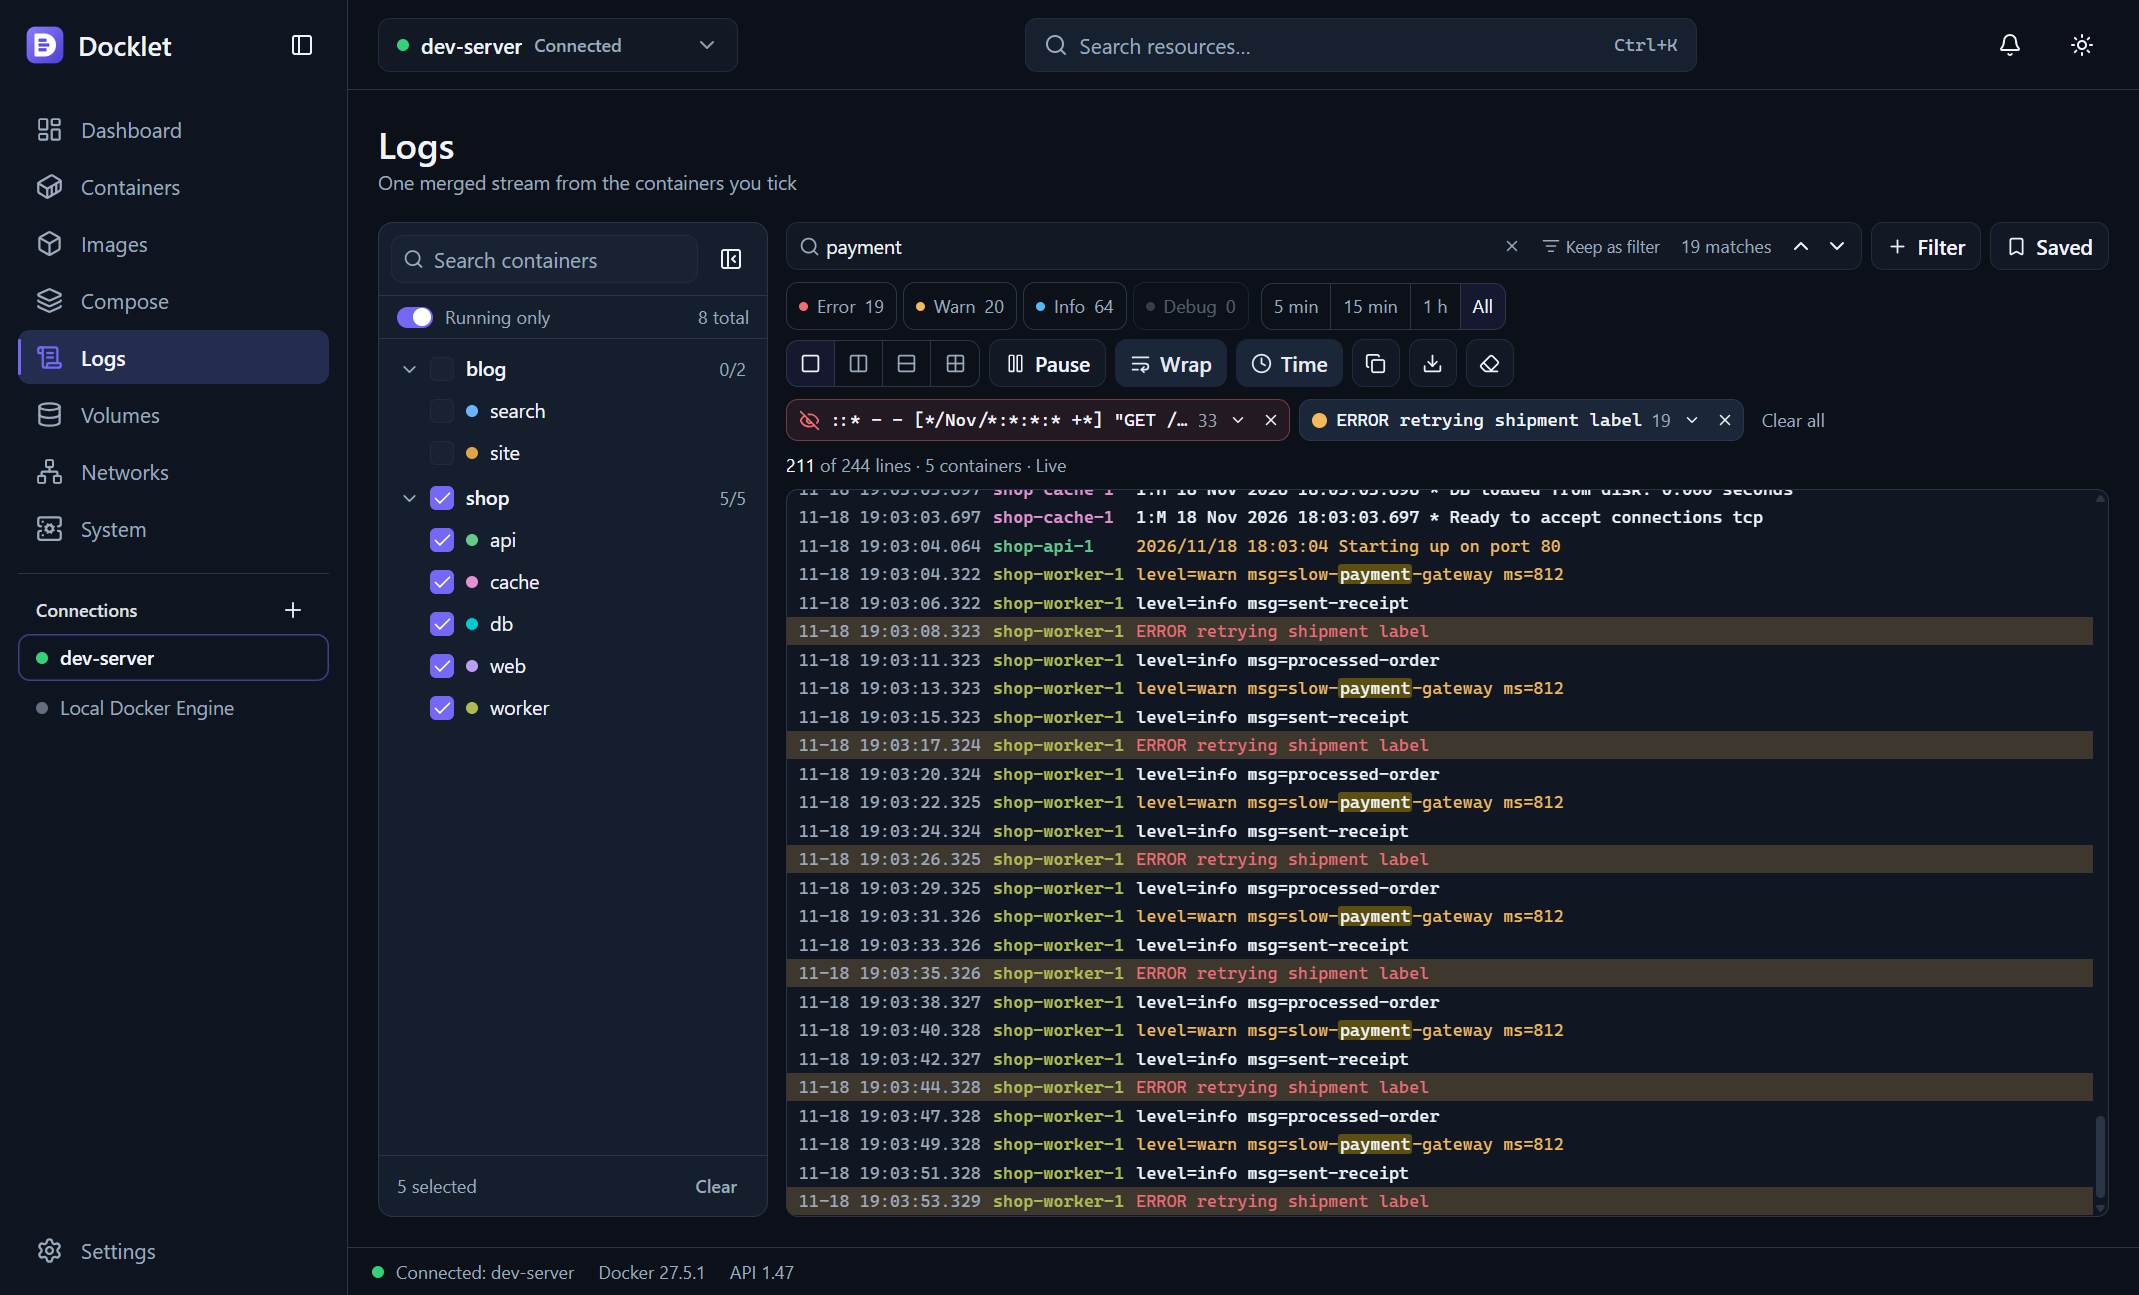
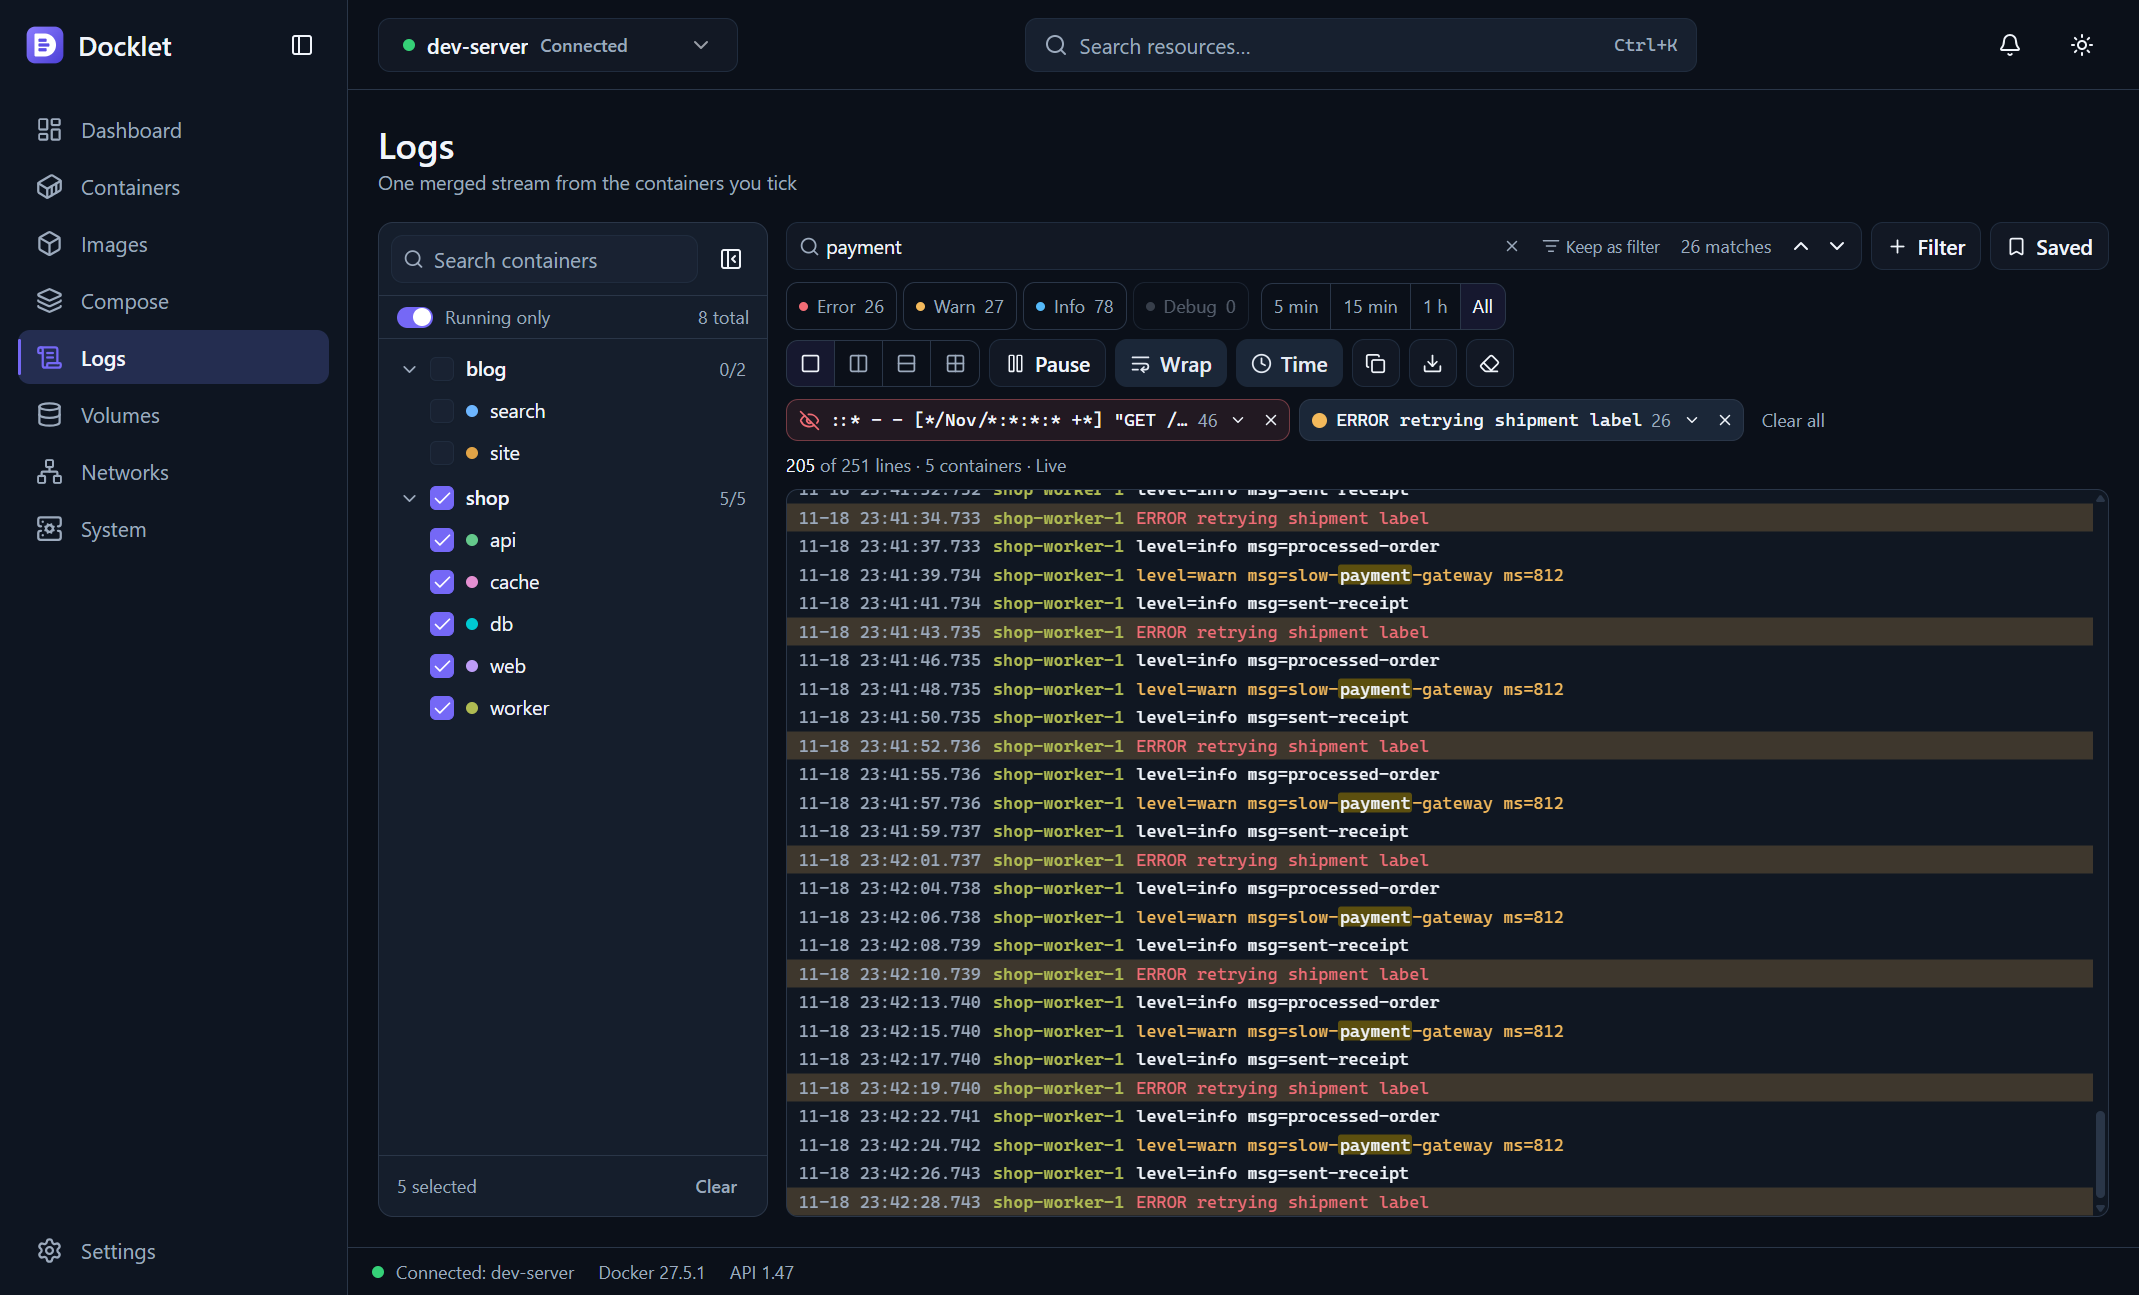
Version 0.5.0, README features and screenshots

diff --git a/README.md b/README.md
@@ -6,7 +6,7 @@ A fast, lightweight desktop app for managing the Docker Engines you already have
 
 ## Why Docklet
 
-- **Works with your existing Docker.** Connect to Docker in WSL2, a local socket, a remote host over SSH, or TCP with TLS. Switch between engines in one click.
+- **Works with your existing Docker.** Connect to Docker in WSL2, a local socket, a remote host over SSH, or TCP with TLS. Switch between engines from the top bar.
 - **Compose is first class.** Containers are grouped by Compose project. Open a compose file from disk and run it, or manage projects that are already running.
 - **Everything for daily work in one place.** Logs, a terminal, live stats, a file browser, images, volumes, networks and cleanup.
 - **Stays out of your way.** No forced updates, no sign-in, no background services. The tray icon and update check are optional and off by default.
@@ -29,10 +29,12 @@ A fast, lightweight desktop app for managing the Docker Engines you already have
 - Up, Down, Start, Stop, Restart, Pull and Build, for a whole project or one service
 - Open a compose file from disk and start it right away
 - Open the project in your editor or file manager
+- Compose watch: start it, see what was synced or rebuilt, and stop it
 - CPU, memory and disk use per project
 
 **Images, volumes and networks**
 - Pull, build, push, tag, save, load and remove images
+- BuildKit builds with step-by-step progress, and a history of your builds
 - See which build steps make an image large
 - See when a newer image is available, then update and recreate in one step
 - Create, browse, export and import volumes
